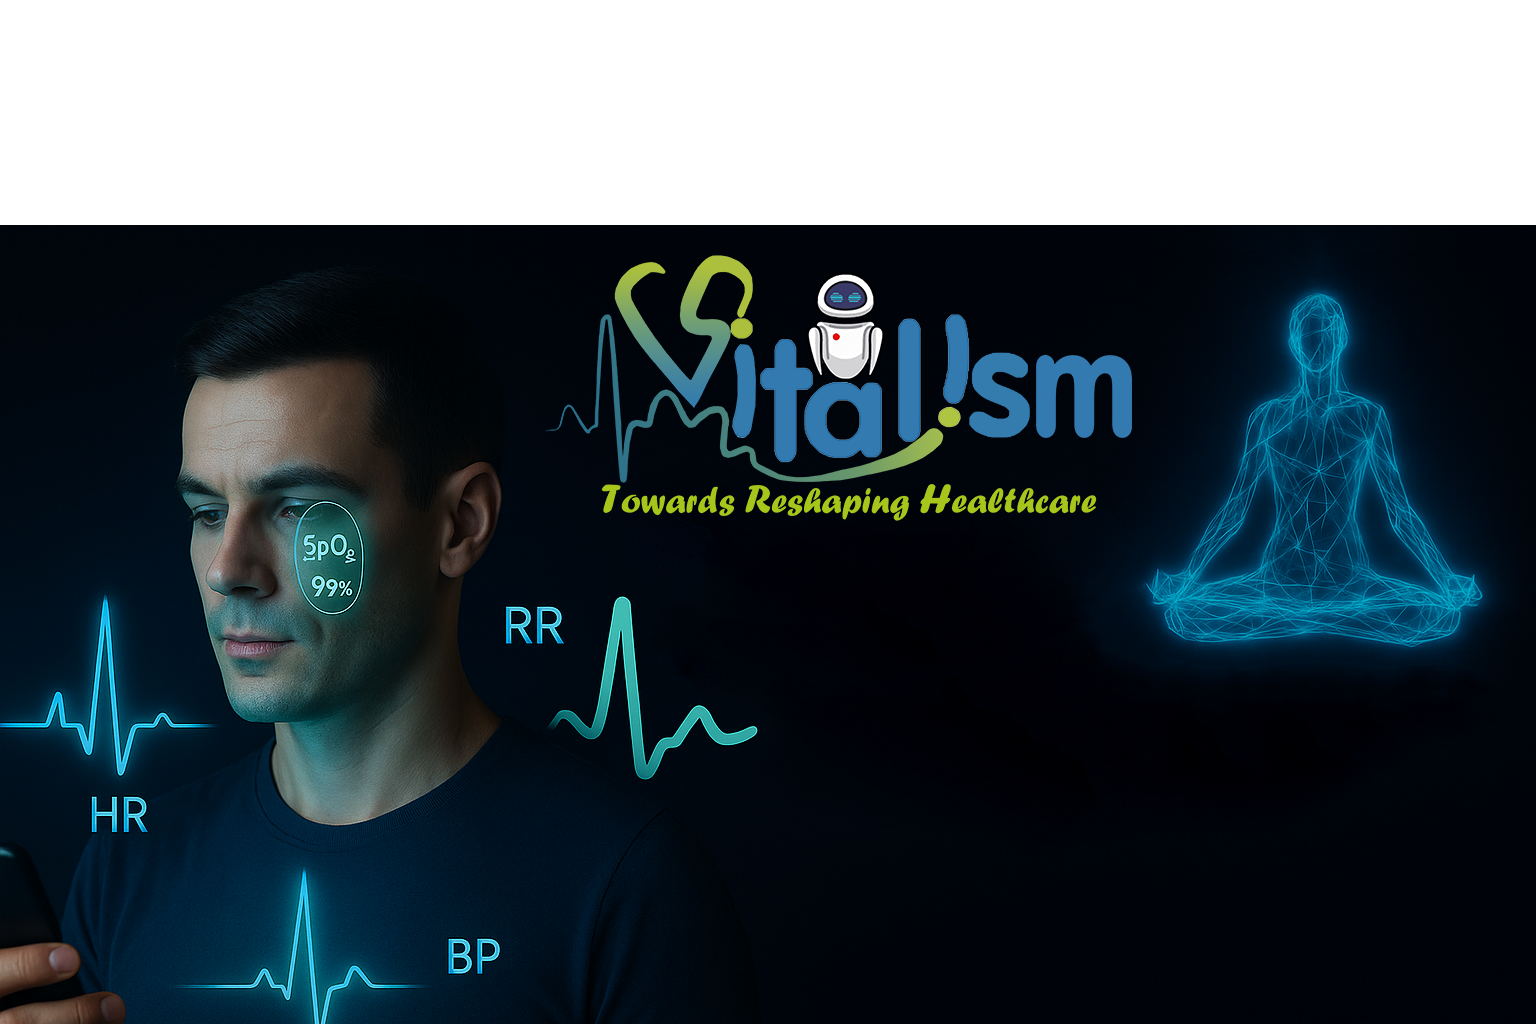
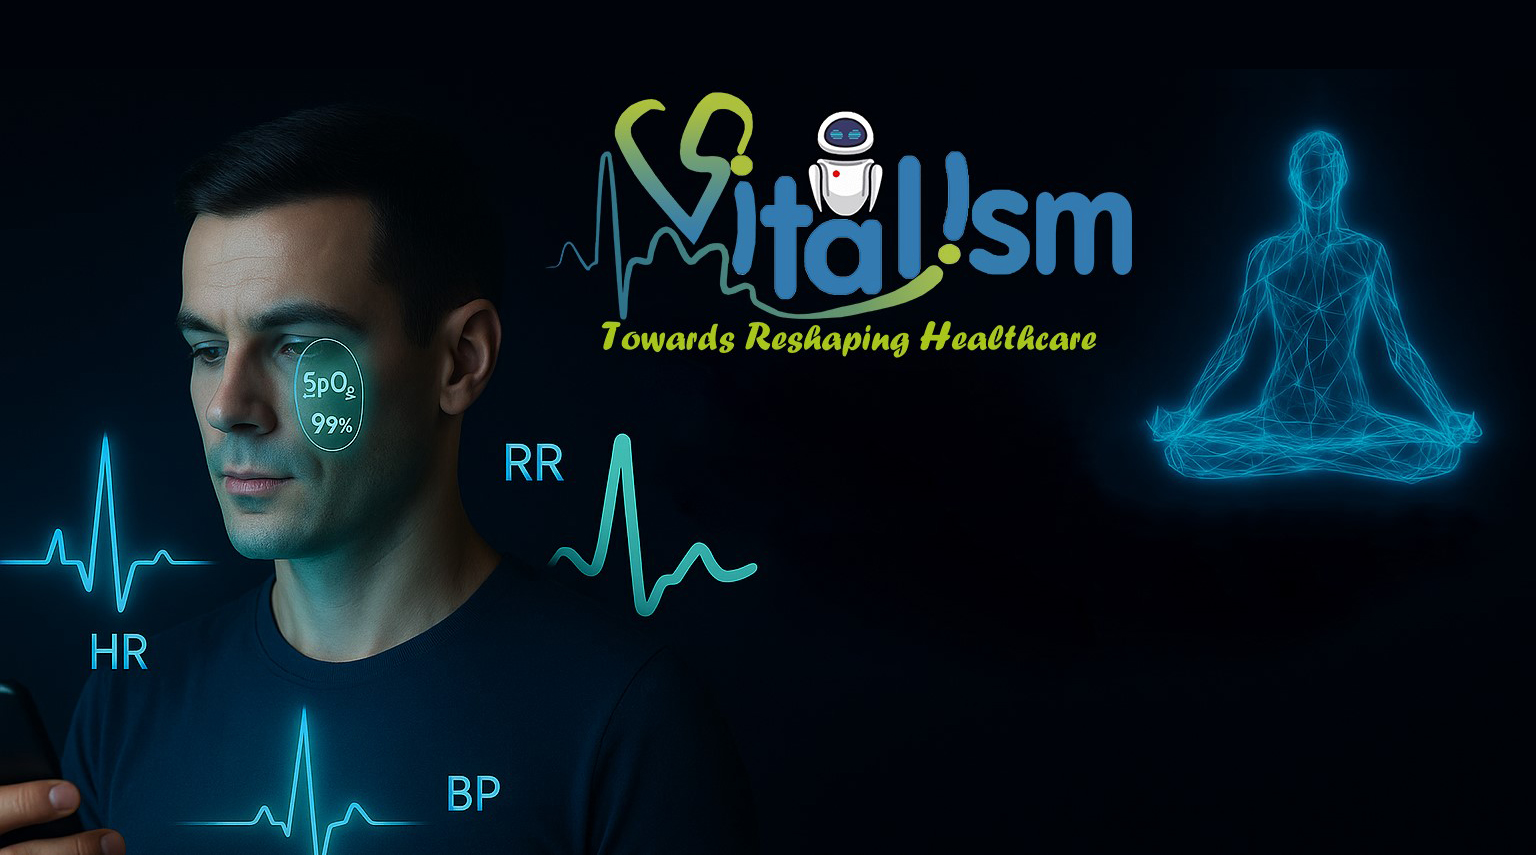
edit: home page image

diff --git a/index.html b/index.html
@@ -931,7 +931,8 @@
     </div>
   </div>
   <div class="hero-company block hero-company  " data-block_04d161f2c9b9f4598cf679fe34be3c30>
-
+    <svg xmlns="http://www.w3.org/2000/svg" width="0" height="0" fill="none" style="position: absolute; z-index: -2;"
+      class="hero-path-svg">
       <clippath clipPathUnits="objectBoundingBox" id="path">
         <path transform="scale(0.00235, 0.00234)"
           d="M64.7 420.9C31.5 420.9-31.6 409.5-59 403.9V-396H429.2V403.9C396.7 395 315.2 381.3 249.4 397.2 167.2 417.1 106.3 420.9 64.7 420.9Z" />
@@ -943,72 +944,39 @@
       </clippath>
     </svg>
 
-    <!-- ✅ Hero Section Styles -->
-<style>
-  .component-hero {
-    position: relative;
-    height: 100vh; /* Full screen height */
-    background-image: url('images/old2.jpg'); /* ✅ Replace with actual path if different */
-    background-size: cover;
-    background-position: center;
-    background-repeat: no-repeat;
-    display: flex;
-    align-items: center;
-    justify-content: center;
-    text-align: center;
-    color: white;
-    overflow: hidden;
-  }
+    <style>
+      .component-hero {
+        clip-path: url(../index.html#path-desktop);
+        -webkit-clip-path: url(../index.html#path-desktop);
+        background-image: url(images/old2.jpg );
+      }
+      @media (max-width: 1199px) {
+        .component-hero {
+          clip-path: url(../index.html#path);
+          -webkit-clip-path: url(../index.html#path);
+        }
+      }
+      @media (max-width: 992px) {
+        .component-hero {
+          background-image: url(images/header-bg-1.png );
+        }
+      }
+      @media screen and (max-width: 992px) {.hero-company .component-hero__title,
+        .hero-company .component-hero__subtitle {
+          color: #313131;
+        }
+      }
+    </style>
 
-  /* ✅ Optional dark overlay to make text readable */
-  .component-hero::before {
-    content: '';
-    position: absolute;
-    top: 0; left: 0;
-    width: 100%;
-    height: 100%;
-    background: rgba(0, 0, 0, 0.5); /* adjust opacity if needed */
-    z-index: 1;
-  }
-
-  .component-hero__inner {
-    position: relative;
-    z-index: 2;
-    max-width: 1000px;
-    padding: 20px;
-  }
-
-  .component-hero__title {
-    font-size: 3rem;
-    font-weight: bold;
-    line-height: 1.2;
-  }
-
-  .component-hero__subtitle {
-    font-size: 1.5rem;
-    margin-bottom: 20px;
-    text-transform: uppercase;
-    letter-spacing: 1px;
-  }
-
-  @media (max-width: 768px) {
-    .component-hero__title {
-      font-size: 2rem;
-    }
-
-    .component-hero__subtitle {
-      font-size: 1.2rem;
-    }
-  }
-</style>
-
-<!-- ✅ Hero Section HTML -->
-<div class="component-hero">
-  <div class="component-hero__inner">
-
-  
-  </div>
-</div>
+    <div class="component-hero small-hero-title Vitalism component-hero--large component-hero--alt without-wave">
+      <div class="bh-container">
+        <div class="component-hero__inner" style="text-align:center; ">
+          <div class="component-hero__body">
+            <div class="component-hero__entry">
+              <h3 class="component-hero__subtitle" style>
+                  
+              </h3>
+              <h1 class="component-hero__title" style> </h1>
 
 
               <div class="component-hero__actions">
